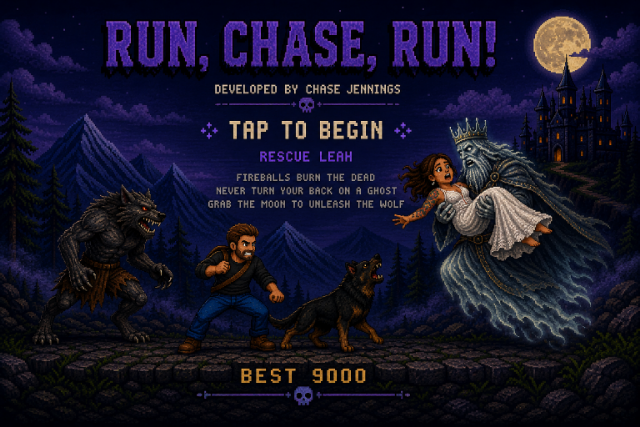
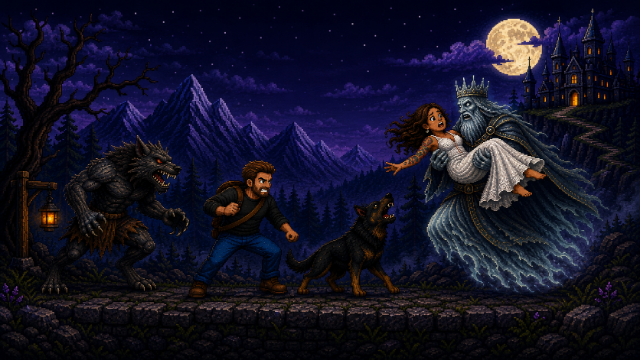
Textless title art with live, outlined text and blinking TAP TO BEGIN
- Swapped title.png for the textless illustration and draw it cover-fit
  edge-to-edge (biased to keep the ground in frame)
- All title text is now rendered live in the crisp 3x5 pixel font with
  an 8-direction black outline for readability: title, developer credit,
  blinking TAP TO BEGIN / PRESS SPACE, RESCUE LEAH, and the real best
  score at the bottom
- Added drawTextO/drawTextCO outlined-text helpers

Claude-Session: https://claude.ai/code/session_01DiDYixMNBvJZ52Dm3Lmqqr

diff --git a/index.html b/index.html
@@ -188,6 +188,15 @@ function textW(str, sc=1) { return String(str).length * 4 * sc - sc; }
 function drawTextC(c, str, y, color, sc=1) {
   drawText(c, str, Math.floor((VW - textW(str, sc)) / 2), y, color, sc);
 }
+// outlined text, readable over artwork
+function drawTextO(c, str, x, y, color, sc=1, outline='#0c0616') {
+  for (const [ox, oy] of [[1,0],[-1,0],[0,1],[0,-1],[1,1],[-1,1],[1,-1],[-1,-1]])
+    drawText(c, str, x + ox, y + oy, outline, sc);
+  drawText(c, str, x, y, color, sc);
+}
+function drawTextCO(c, str, y, color, sc=1, outline='#0c0616') {
+  drawTextO(c, str, Math.floor((VW - textW(str, sc)) / 2), y, color, sc, outline);
+}
 
 //------------------------------------------------ sprite builder
 function makeSprite(rows, pal, w=16) {
@@ -2011,21 +2020,19 @@ function drawTitle() {
   drawBackdrop();
   drawFog();
   if (titleImg.complete && titleImg.naturalWidth > 0) {
-    // illustrated card, fit by height, live sky showing at the sides
-    const s = VH / titleImg.naturalHeight;
-    const w = Math.floor(titleImg.naturalWidth * s);
+    // full-bleed artwork (cover fit, biased to keep the ground in frame)
+    const s = Math.max(VW / titleImg.naturalWidth, VH / titleImg.naturalHeight);
+    const w = Math.ceil(titleImg.naturalWidth * s), h = Math.ceil(titleImg.naturalHeight * s);
     const x = Math.floor((VW - w) / 2);
-    ctx.drawImage(titleImg, x, 0, w, VH);
-    // replace the baked-in BEST banner with the real score
-    const bx = x + Math.floor(w * 0.20), bw = Math.floor(w * 0.60);
-    const by = Math.floor(VH * 0.83), bh = Math.floor(VH * 0.15);
-    ctx.fillStyle = '#0a0718';
-    ctx.fillRect(bx, by, bw, bh);
-    ctx.fillStyle = '#4a3a80';
-    ctx.fillRect(bx, by, bw, 1); ctx.fillRect(bx, by + bh - 1, bw, 1);
-    const msg = best > 0 ? 'BEST ' + best : 'GOOD LUCK, CHASE';
-    if ((frame >> 5) & 1 || best > 0)
-      drawText(ctx, msg, bx + Math.floor((bw - textW(msg)) / 2), by + Math.floor(bh / 2) - 2, '#ffd75e');
+    const y = -Math.floor((h - VH) * 0.35);
+    ctx.drawImage(titleImg, x, y, w, h);
+    // live text, outlined for readability
+    drawTextCO(ctx, 'RUN, CHASE, RUN!', 8, '#b085ff', 3);
+    drawTextCO(ctx, 'DEVELOPED BY CHASE JENNINGS', 32, '#d9cff0');
+    if ((frame >> 5) & 1)
+      drawTextCO(ctx, hasTouch ? 'TAP TO BEGIN' : 'PRESS SPACE', 50, '#f6ecd0', 2);
+    drawTextCO(ctx, 'RESCUE LEAH', 70, '#f0ecf4');
+    if (best > 0) drawTextCO(ctx, 'BEST ' + best, VH - 12, '#ffd75e');
     return;
   }
   // fallback if the art hasn't loaded
